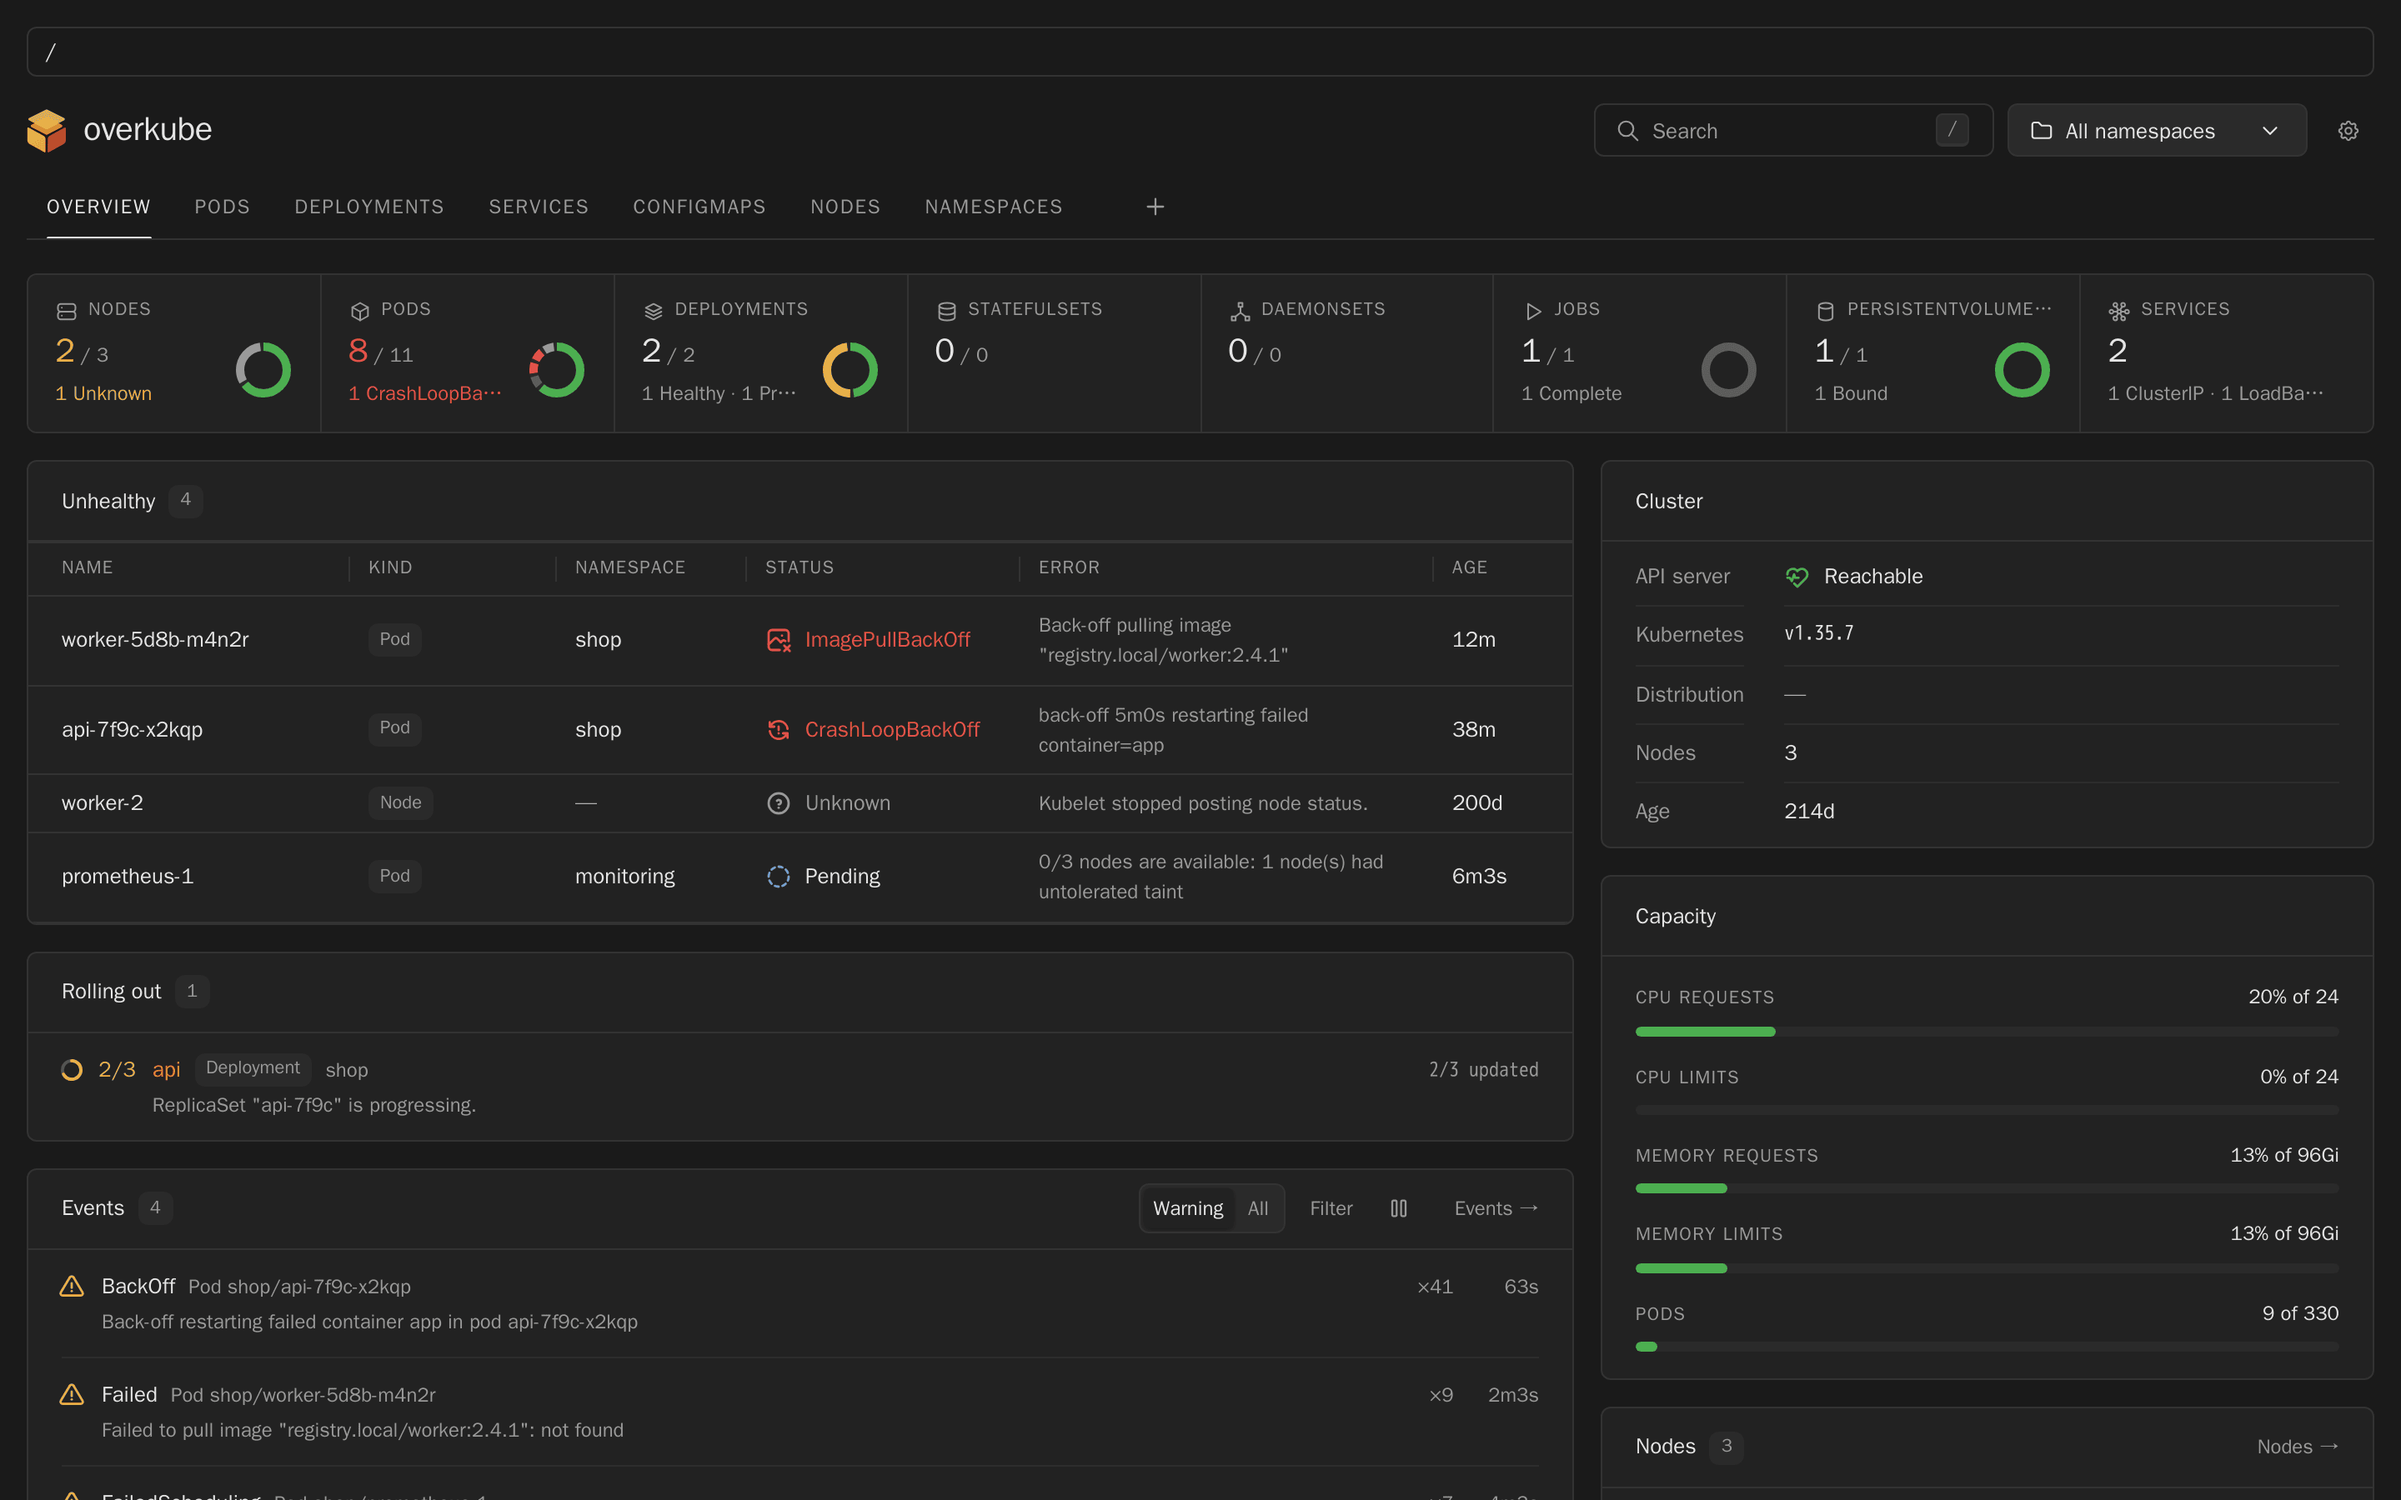
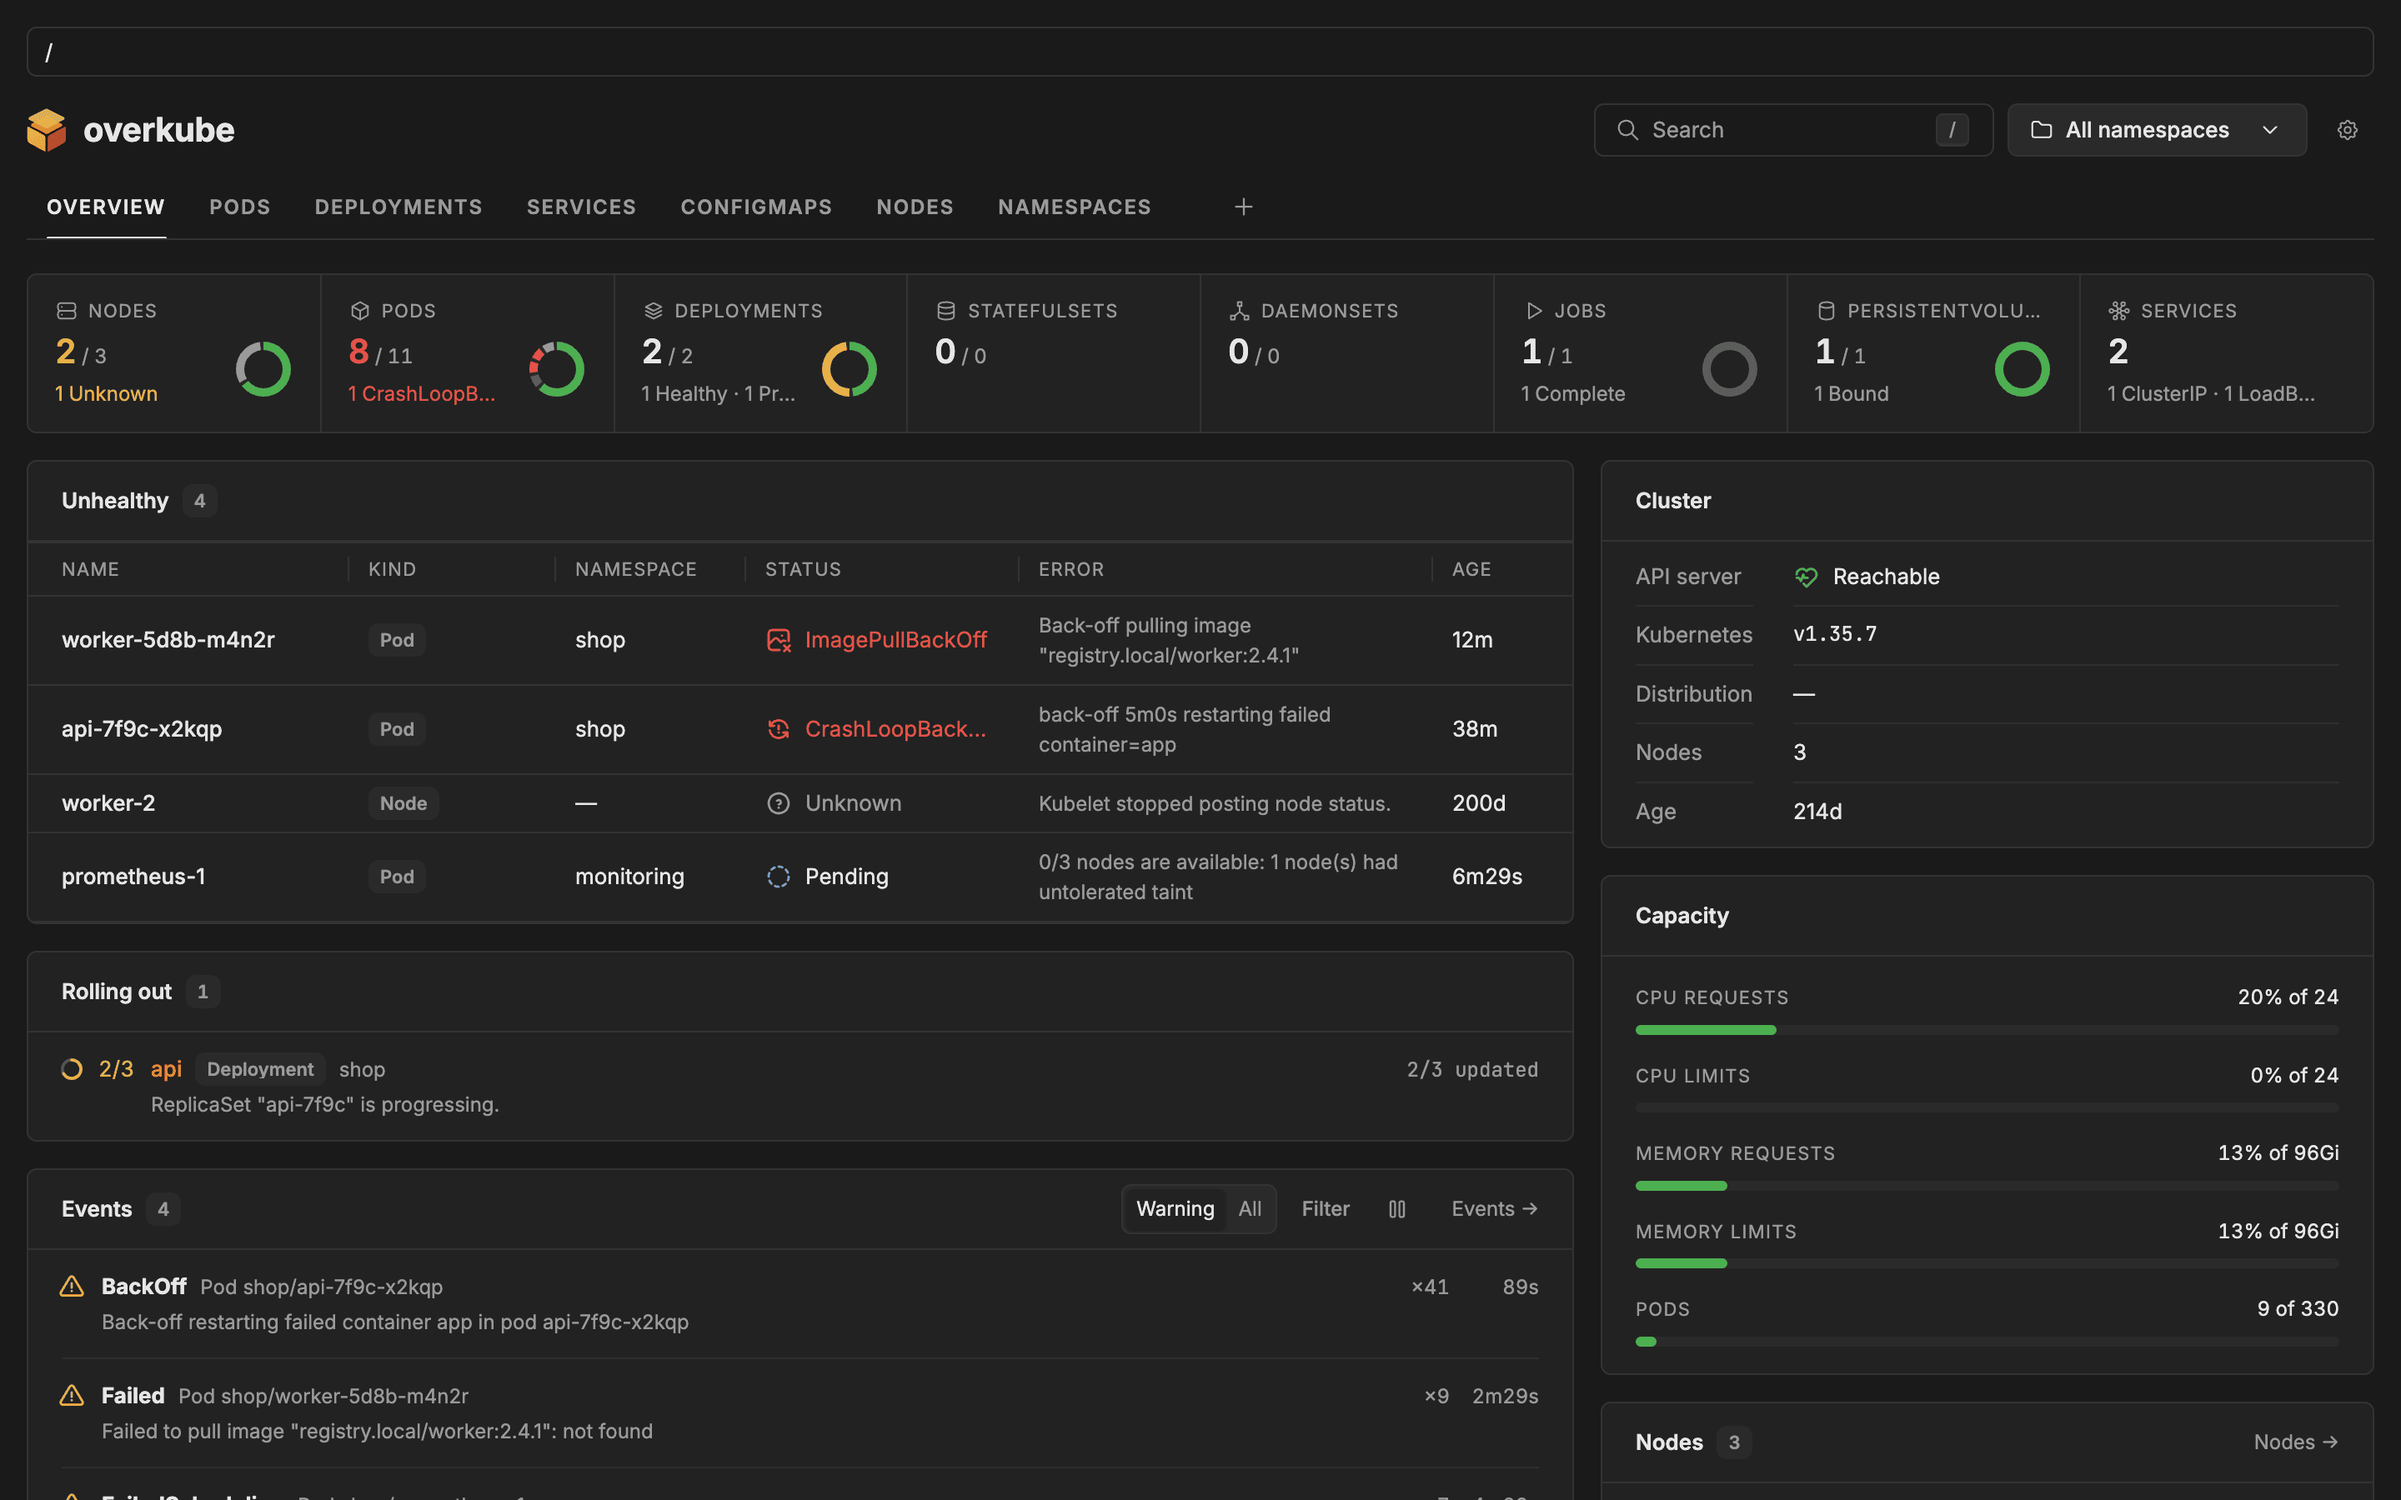
feat(uikit, web): Inter and JetBrains Mono; a long log line in pieces however it comes
Fonts:
- the kit's fonts: Inter, JetBrains Mono (uikit's FONT, MONO_FONT) — the
  same on every system, the system's while they load; System and
  Monospace still a theme's choice in Settings
- the page loads them from its own files (@fontsource-variable/inter,
  @fontsource-variable/jetbrains-mono, OFL-1.1), never inlined as data:
  (the page's CSP takes none)
- their licenses in About and in the dependency review's list

Storybook:
- every story full screen: no frame of Storybook's own (the core's draw
  a whole page, the kit's their own ground)
- the fonts loaded; KubeStory and the stories no longer set the
  system's font over the theme's

Gateway:
- a log line over 256 KB was cut only while it had no end yet; one that
  came whole in a chunk was told whole. Now the same pieces either way
  (the flaky "tells a line too long in pieces" on CI)

README:
- screenshots taken again: the system's Chrome, the kit's fonts, no
  frame

diff --git a/packages/uikit/src/theme.ts b/packages/uikit/src/theme.ts
@@ -41,6 +41,17 @@ export const COLOR_TOKENS = [
 /** The rest: fonts, corners. */
 export const SHAPE_TOKENS = ['font', 'mono', 'radius-sm', 'radius', 'radius-lg'] as const;
 
+/**
+ * The kit's fonts: Inter and JetBrains Mono — the same on every system, the
+ * page's to load (@fontsource-variable/inter, @fontsource-variable/jetbrains-mono:
+ * their own files, never another site's) — the system's while they load, or
+ * where they are not loaded.
+ */
+export const FONT = "'Inter Variable', system-ui, -apple-system, 'Segoe UI', sans-serif";
+export const MONO_FONT = "'JetBrains Mono Variable', ui-monospace, SFMono-Regular, Menlo, Consolas, monospace";
+/** The system's own (a theme's choice). */
+export const SYSTEM_FONT = "system-ui, -apple-system, 'Segoe UI', sans-serif";
+
 export const TOKENS = [...COLOR_TOKENS, ...SHAPE_TOKENS] as const;
 export type Token = (typeof TOKENS)[number];
 
@@ -64,8 +75,8 @@ const dark: Record<Token, string> = {
   overlay: 'rgb(0 0 0 / .5)',
   shadow: '#000',
   knob: '#fff',
-  font: 'inherit',
-  mono: 'ui-monospace, SFMono-Regular, Menlo, Consolas, monospace',
+  font: FONT,
+  mono: MONO_FONT,
   'radius-sm': '4px',
   radius: '6px',
   'radius-lg': '12px',
@@ -150,7 +161,7 @@ export interface ThemeKnobs {
 export const HUE_TRACK = `linear-gradient(90deg, ${[0, 60, 120, 180, 240, 300, 360].map((h) => `hsl(${h} 70% 50%)`).join(', ')})`;
 
 /** The kit's own, as near as knobs say it. */
-export const KNOBS: ThemeKnobs = { accent: '#ff8c2f', hue: 0, tint: 0, depth: 10, contrast: 90, corners: 6, font: 'inherit' };
+export const KNOBS: ThemeKnobs = { accent: '#ff8c2f', hue: 0, tint: 0, depth: 10, contrast: 90, corners: 6, font: FONT };
 
 const hsl = (h: number, s: number, l: number) => `hsl(${h} ${s}% ${Math.max(0, Math.min(100, l))}%)`;
 

diff --git a/packages/gateway/src/log.ts b/packages/gateway/src/log.ts
@@ -159,14 +159,13 @@ export class LogFeed implements Feed {
     answer.setEncoding('utf8');
     answer.on('data', (chunk: string) => {
       if (!current()) return;
-      const lines = (rest + chunk).split('\n');
-      rest = lines.pop() ?? '';
-      // A line with no end in sight: told in pieces (by code points: none cut in two).
-      while (rest.length > MAX_LOG_LINE) {
-        const cut = /[\uD800-\uDBFF]/.test(rest[MAX_LOG_LINE - 1]) ? MAX_LOG_LINE - 1 : MAX_LOG_LINE;
-        lines.push(rest.slice(0, cut));
-        rest = rest.slice(cut);
-      }
+      const whole = (rest + chunk).split('\n');
+      rest = whole.pop() ?? '';
+      // A long line in pieces, however it came (at once, or with no end in sight yet): the same pieces.
+      const lines = whole.flatMap(pieces);
+      const unfinished = pieces(rest);
+      rest = unfinished.pop() ?? '';
+      lines.push(...unfinished);
       const out = lines.filter((line) => this.cursor.take(splitLogLine(line).time));
       if (!out.length) return;
       // Working for a while: the next trouble starts from the shortest wait again (not a few lines, then a break, at once forever).
@@ -182,4 +181,17 @@ export class LogFeed implements Feed {
       if (current() && !answer.complete) this.fail('kube_error', 'the API server broke the log off');
     });
   }
+}
+
+/** A line in pieces of MAX_LOG_LINE at most (by code points: none cut in two); a short one, itself. */
+function pieces(line: string): string[] {
+  const all: string[] = [];
+  let left = line;
+  while (left.length > MAX_LOG_LINE) {
+    const cut = /[\uD800-\uDBFF]/.test(left[MAX_LOG_LINE - 1]) ? MAX_LOG_LINE - 1 : MAX_LOG_LINE;
+    all.push(left.slice(0, cut));
+    left = left.slice(cut);
+  }
+  all.push(left);
+  return all;
 }

diff --git a/addons/core/.storybook/preview.tsx b/addons/core/.storybook/preview.tsx
@@ -1,4 +1,6 @@
-import { adoptStyles } from '@overkube/uikit';
+import '@fontsource-variable/inter';
+import '@fontsource-variable/jetbrains-mono';
+import { adoptStyles, FONT } from '@overkube/uikit';
 import type { Decorator } from '@storybook/preact-vite';
 
 /** A kit's story on the page's ground: its styles, its root (the core's draw their own, KubeStory). */
@@ -6,7 +8,7 @@ const kit: Decorator = (Story, { title }) => {
   if (title.startsWith('core')) return <Story />;
   adoptStyles(document);
   return (
-    <div class="uk-root" style={{ padding: '24px', minHeight: '100vh', background: 'var(--uk-bg)', fontFamily: "system-ui, -apple-system, 'Segoe UI', sans-serif" }}>
+    <div class="uk-root" style={{ padding: '24px', minHeight: '100vh', background: 'var(--uk-bg)', fontFamily: FONT }}>
       <Story />
     </div>
   );
@@ -15,6 +17,8 @@ const kit: Decorator = (Story, { title }) => {
 export default {
   decorators: [kit],
   parameters: {
+    // No frame of Storybook's own: the core's draw a whole page, the kit's their ground (kit, above).
+    layout: 'fullscreen',
     // The core's first, by where it is on the page: a kind's page, the navigation, a resource opened (any kind's, each kind's), states, how it looks;
     // its sketches last. Then the kit's. Said here as it is: Storybook reads it without running this file.
     options: { storySort: { order: ['core', ['Kind page', 'Navigation', 'Resource view', 'Resource view by kind', 'Statuses', 'Appearance', 'resource']] } },

diff --git a/addons/core/src/settings.tsx b/addons/core/src/settings.tsx
@@ -8,6 +8,7 @@ import {
   BoardAside,
   Button,
   DEFAULT_TOKENS,
+  FONT,
   knobsOf,
   Modal,
   madeTheme,
@@ -22,6 +23,7 @@ import {
   Status,
   Swatches,
   Switch,
+  SYSTEM_FONT,
   type ThemeKnobs,
   ThemePicker,
 } from '@overkube/uikit';
@@ -66,8 +68,8 @@ const Part = ({ title, count, tools, children }: { title: string; count?: number
 export const OWN_THEME = 'custom';
 const ACCENTS = ['#ff8c2f', '#e5534b', '#e3b341', '#4caf50', '#3ddbd9', '#58a6ff', '#a371f7', '#f778ba'];
 const FONTS = [
-  { value: 'inherit', title: 'System' },
-  { value: 'Inter, system-ui, sans-serif', title: 'Inter' },
+  { value: FONT, title: 'Inter' },
+  { value: SYSTEM_FONT, title: 'System' },
   { value: 'var(--uk-mono)', title: 'Monospace' },
 ];
 

diff --git a/addons/core/src/resource.sketch.tsx b/addons/core/src/resource.sketch.tsx
@@ -36,7 +36,7 @@ import { useEffect, useState } from 'preact/hooks';
 // ── The sketch's own looks: few, on the kit's scale ────────────────────────
 
 const SKETCH = `
-.rv-stage { padding: 24px; min-height: 100vh; background: var(--uk-bg); font-family: system-ui, -apple-system, 'Segoe UI', sans-serif; }
+.rv-stage { padding: 24px; min-height: 100vh; background: var(--uk-bg); font-family: var(--uk-font); }
 .rv-bar { display: flex; align-items: center; gap: 16px; margin-bottom: 16px; color: var(--uk-muted); font-size: 12px; }
 .rv-frame { margin: 0 auto; }
 .rv-frame .uk-modal-panel { width: 100%; max-height: none; animation: none; }

diff --git a/apps/web/vite.config.ts b/apps/web/vite.config.ts
@@ -41,5 +41,10 @@ export default defineConfig({
     // Polled (no file events cross a container's mount); ours watched too, though seen through node_modules.
     watch: { usePolling: true, interval: 300, ignored: ['**/node_modules/**', '!**/node_modules/@overkube/**', '!**/node_modules/@overweave/**', '**/dist/**'] },
   },
-  build: { outDir: 'dist', emptyOutDir: true },
+  build: {
+    outDir: 'dist',
+    emptyOutDir: true,
+    // Fonts as files of their own, however small: the page's CSP takes no data: font.
+    assetsInlineLimit: (file) => (file.endsWith('.woff2') ? false : undefined),
+  },
 });

diff --git a/packages/uikit/src/index.ts b/packages/uikit/src/index.ts
@@ -93,4 +93,20 @@ export { Badge } from './status/Badge';
 export { Dot } from './status/Dot';
 export { Notice } from './status/Notice';
 export { Status, TONES, type Tone } from './status/Status';
-export { DEFAULT_TOKENS, KNOBS, knobsOf, madeTheme, SHAPE_TOKENS, SIZES, type Size, type ThemeKnobs, TOKENS, type Token, type Tokens, tokenStyle } from './theme';
+export {
+  DEFAULT_TOKENS,
+  FONT,
+  KNOBS,
+  knobsOf,
+  MONO_FONT,
+  madeTheme,
+  SHAPE_TOKENS,
+  SIZES,
+  type Size,
+  SYSTEM_FONT,
+  type ThemeKnobs,
+  TOKENS,
+  type Token,
+  type Tokens,
+  tokenStyle,
+} from './theme';

diff --git a/packages/storybook/src/preact/KubeStory.tsx b/packages/storybook/src/preact/KubeStory.tsx
@@ -132,7 +132,7 @@ function Story({ addons, path = '/', cluster, served, kinds, user, theme, locale
     setFailures((now) => (now.includes(said) ? now : [...now, said]));
   };
   return (
-    <div class="uk-root" style={{ padding: '16px', background: 'var(--uk-bg)', minHeight: '100%', fontFamily: "system-ui, -apple-system, 'Segoe UI', sans-serif" }}>
+    <div class="uk-root" style={{ padding: '16px', background: 'var(--uk-bg)', minHeight: '100%' }}>
       <WorldStory
         ui={ui}
         kinds={kubeOwnKinds}

diff --git a/addons/core/src/licenses.generated.ts b/addons/core/src/licenses.generated.ts
@@ -17,6 +17,18 @@ export const OVERKUBE: Library = {
 
 export const LIBRARIES: readonly Library[] = [
   {
+    "name": "@fontsource-variable/inter",
+    "version": "5.3.0",
+    "license": "OFL-1.1",
+    "url": "https://fontsource.org/fonts/inter"
+  },
+  {
+    "name": "@fontsource-variable/jetbrains-mono",
+    "version": "5.3.0",
+    "license": "OFL-1.1",
+    "url": "https://fontsource.org/fonts/jetbrains-mono"
+  },
+  {
     "name": "@marcbachmann/cel-js",
     "version": "8.0.0",
     "license": "MIT",

diff --git a/apps/web/src/page.css b/apps/web/src/page.css
@@ -5,7 +5,8 @@ body {
   height: 100%;
 }
 body {
-  font-family: system-ui, -apple-system, "Segoe UI", sans-serif;
+  /* The kit's font (uikit's FONT; loaded by main.tsx), the system's until it is. */
+  font-family: "Inter Variable", system-ui, -apple-system, "Segoe UI", sans-serif;
 }
 #app {
   min-height: 100%;

diff --git a/addons/core/src/statuses.stories.tsx b/addons/core/src/statuses.stories.tsx
@@ -22,7 +22,6 @@ export const Looks = () => {
         minHeight: '100vh',
         columns: '300px',
         columnGap: '24px',
-        fontFamily: "system-ui, -apple-system, 'Segoe UI', sans-serif",
       }}
     >
       {groups.map((g) => (

diff --git a/apps/web/src/main.tsx b/apps/web/src/main.tsx
@@ -1,3 +1,6 @@
+// The kit's fonts, the page's own files (its CSP takes no other site's).
+import '@fontsource-variable/inter';
+import '@fontsource-variable/jetbrains-mono';
 import './page.css';
 import { boot } from './boot.ts';
 
